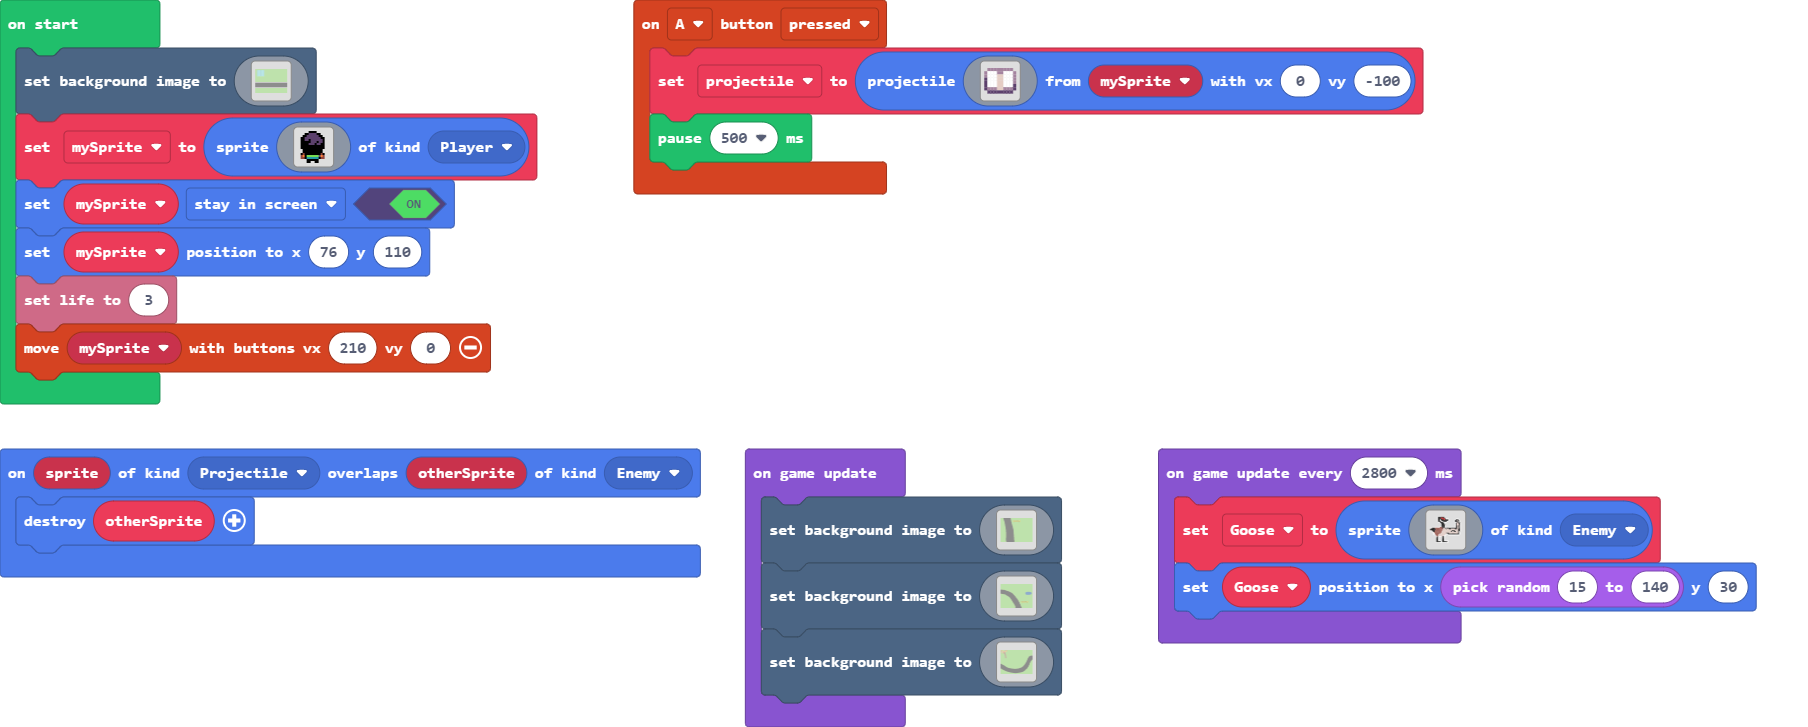
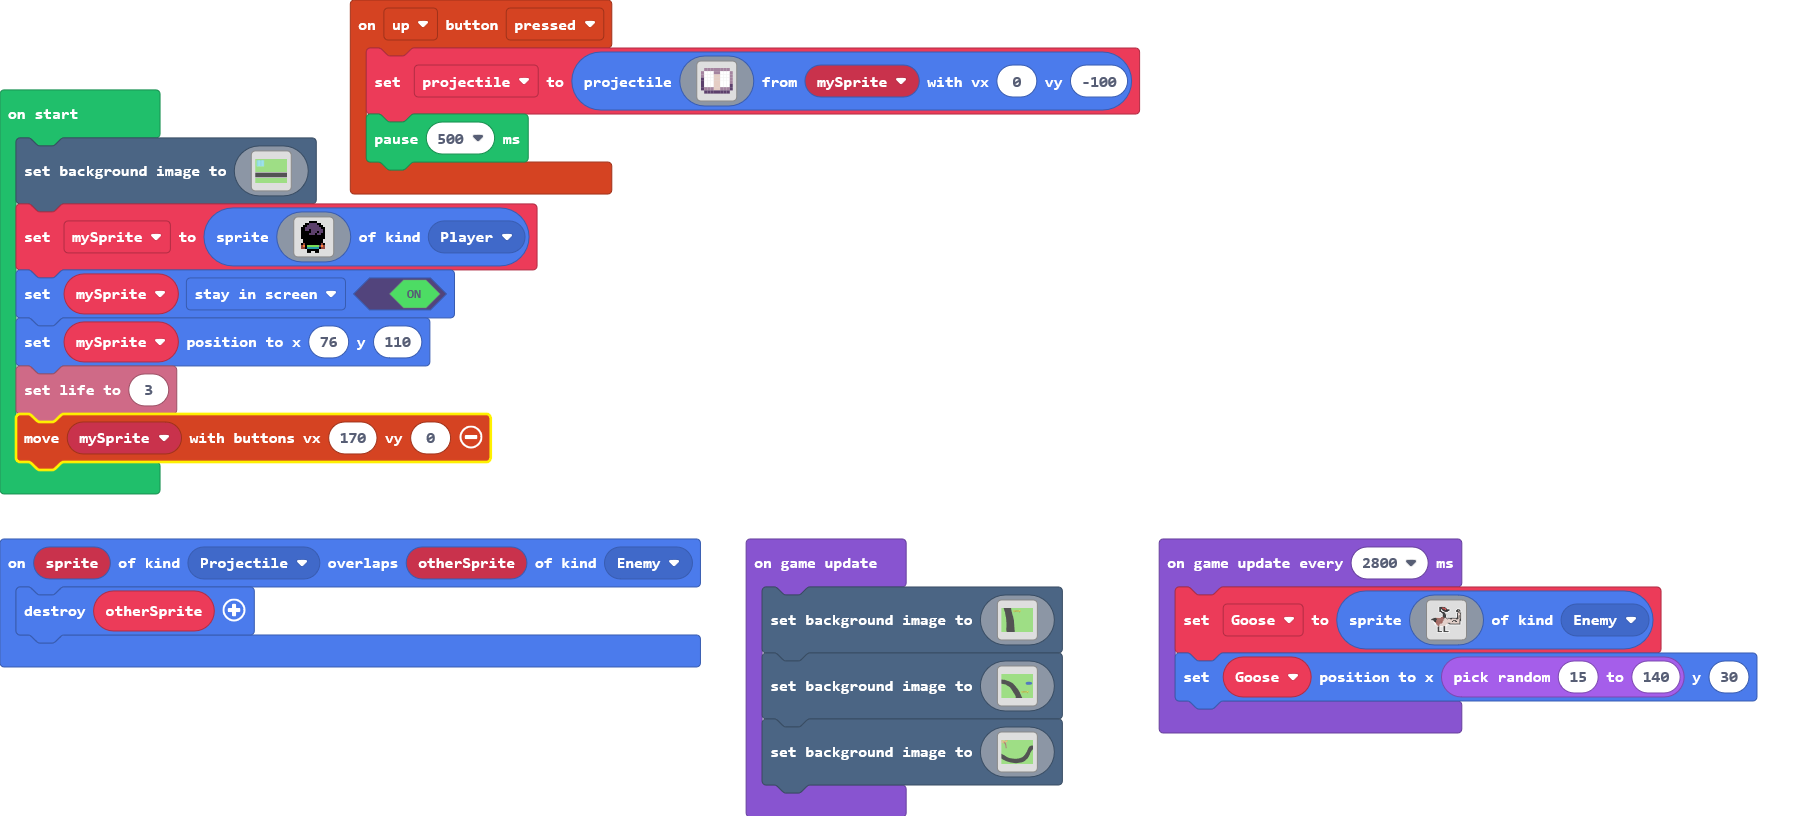
Update main.blocks, main.ts

diff --git a/main.ts b/main.ts
@@ -1,4 +1,4 @@
-controller.A.onEvent(ControllerButtonEvent.Pressed, function () {
+controller.up.onEvent(ControllerButtonEvent.Pressed, function () {
     projectile = sprites.createProjectileFromSprite(img`
         . b b b b b b b b . 
         b 1 1 1 b b 1 1 1 b 
@@ -160,7 +160,7 @@ mySprite = sprites.create(img`
 mySprite.setFlag(SpriteFlag.StayInScreen, true)
 mySprite.setPosition(76, 110)
 info.setLife(3)
-controller.moveSprite(mySprite, 210, 0)
+controller.moveSprite(mySprite, 170, 0)
 game.onUpdate(function () {
     scene.setBackgroundImage(img`
[1 lines of base64/hex data omitted]
